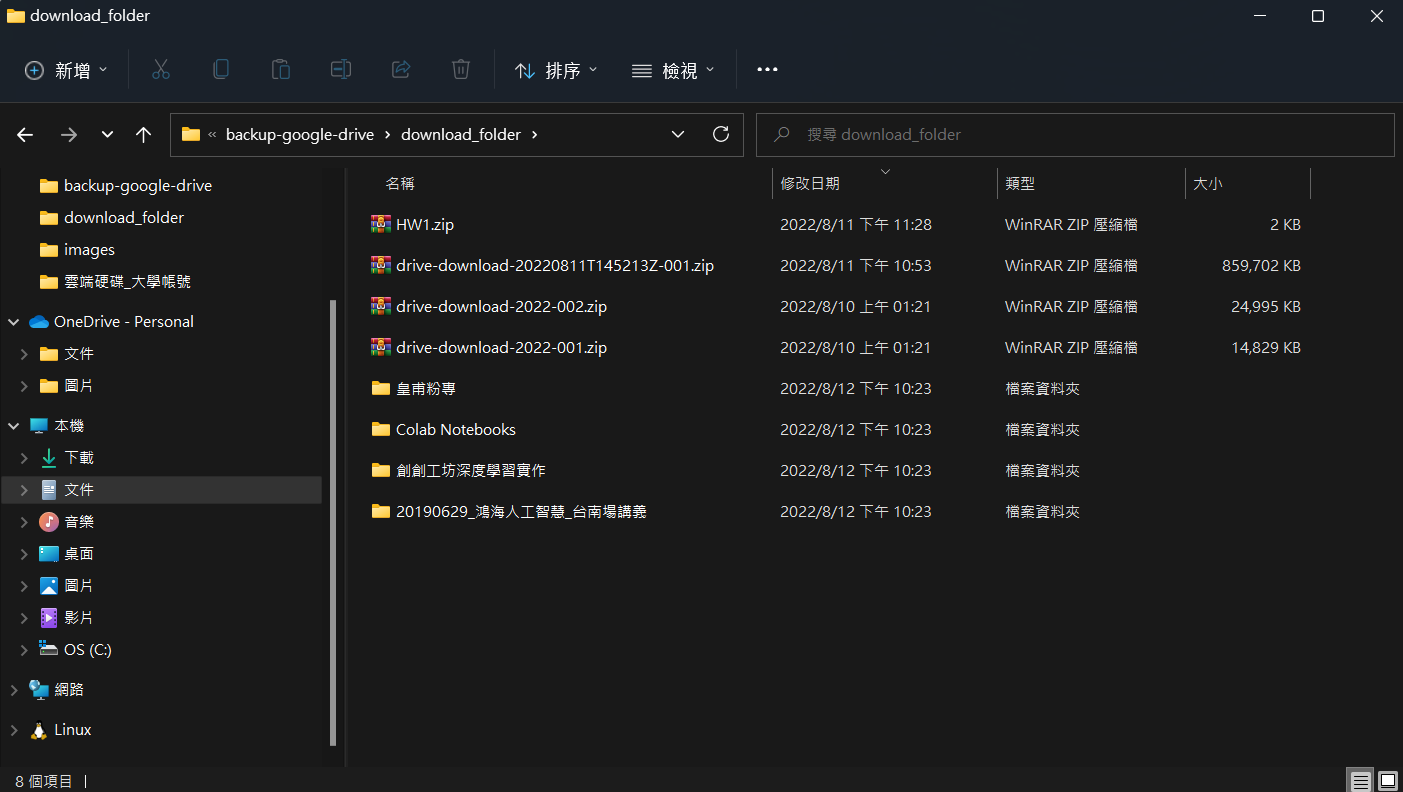
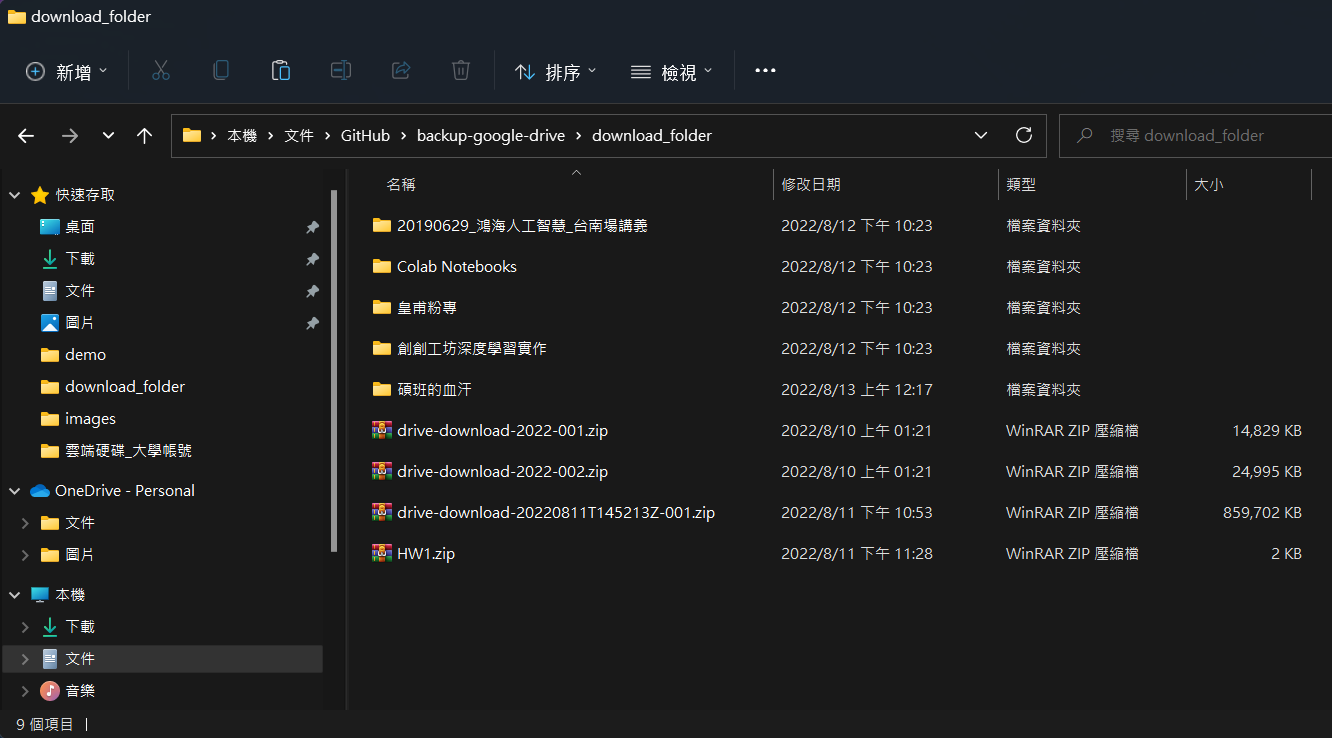
update readme

diff --git a/README.md b/README.md
@@ -36,7 +36,7 @@ python organize_folder.py --folder D:/where/is/the/download/folder
 資料夾被整理前:
 ![image](https://github.com/jason022085/backup-google-drive/blob/main/demo/demo_2.png)
 
-資料夾被整理後:
+資料夾被整理後(碩班的血汗被合而為一、zip檔解壓縮):
 ![image](https://github.com/jason022085/backup-google-drive/blob/main/demo/demo_3.png)
 
 接下來只要靜靜等待程式運行結束，**完成後可以手動刪除原本下載的zip壓縮檔**。
